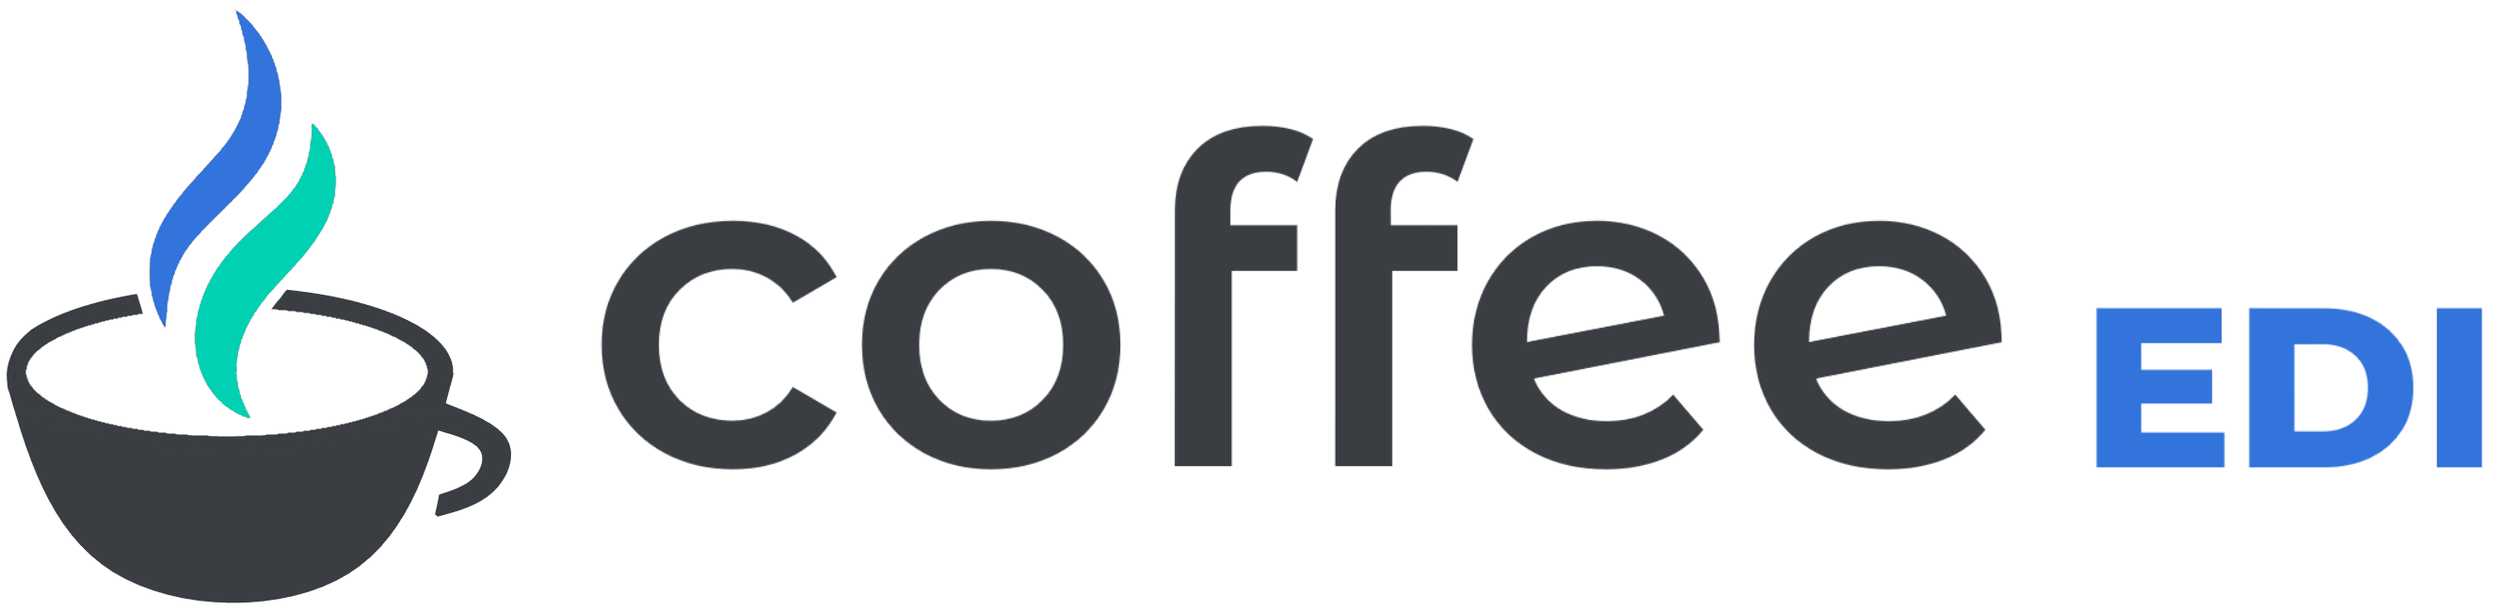
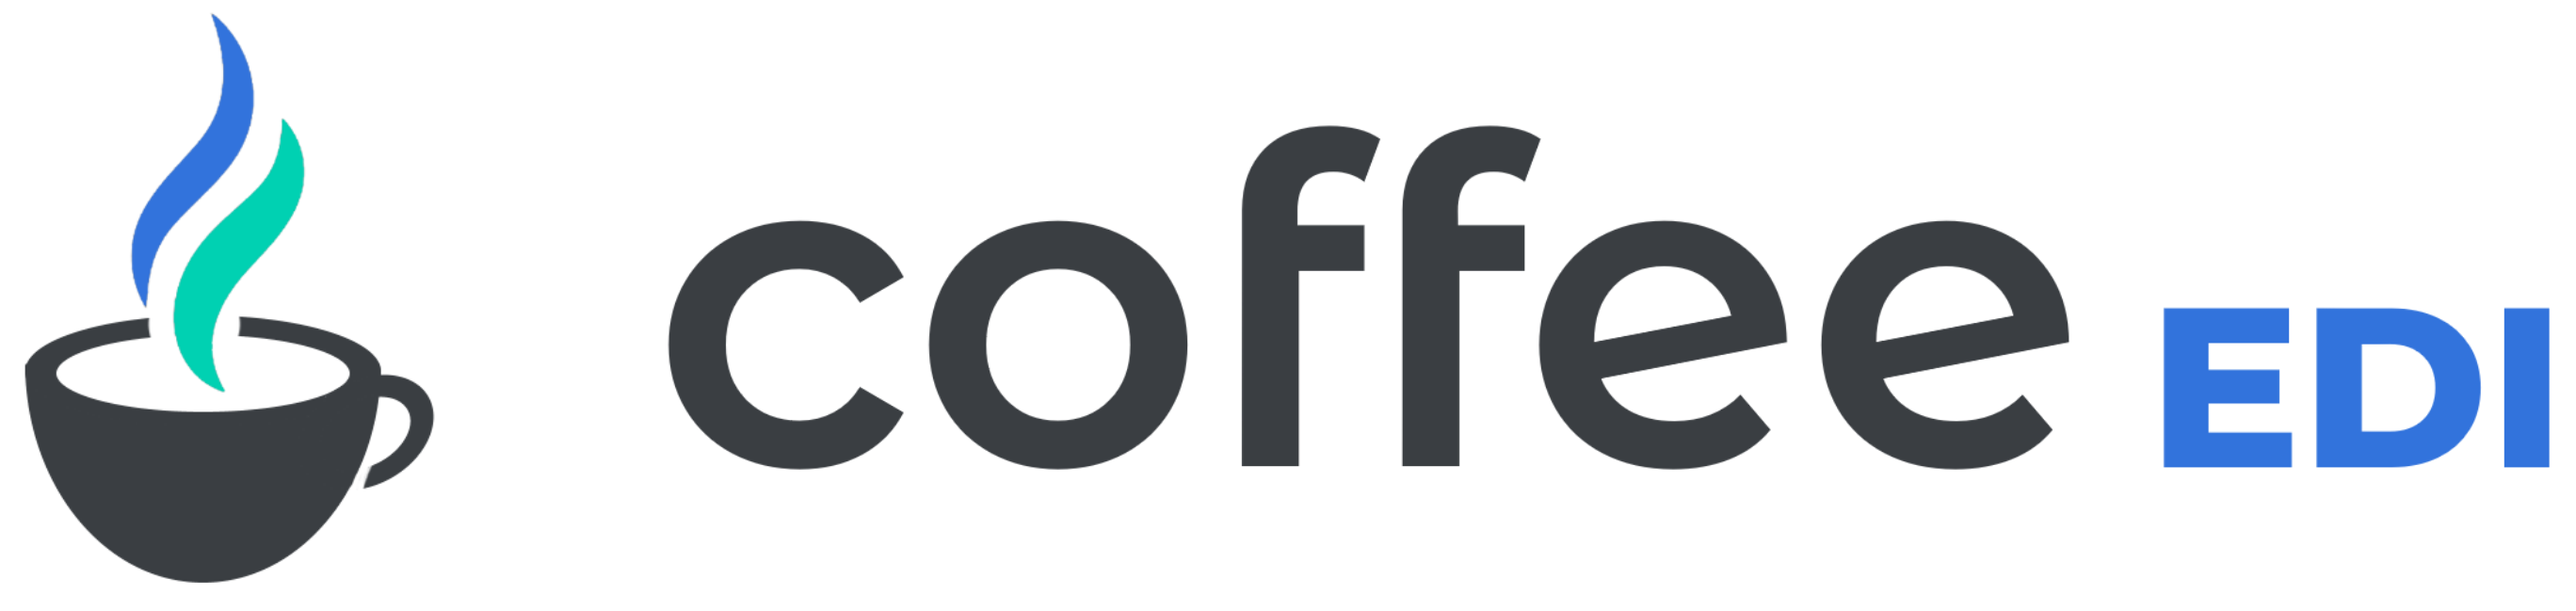
Updated assets

Changed region(s): [[0.2172, 0.1849, 0.9929, 0.7704], [0.0, 0.0308, 0.2172, 0.9861]]

diff --git a/index.html b/index.html
@@ -15,7 +15,7 @@
     <div class="columns is-gapless wrapper">
         <div class="column pr-0 py-0" style="max-width: 200px">
             <div class="column-header">
-                <img src="./assets/coffee.png">
+                <img id="logo" src="./assets/coffee.png">
             </div>
             <aside class="menu is-small p-4">
                 <p class="menu-label">

diff --git a/style.css b/style.css
@@ -82,8 +82,8 @@ table {
     padding-left: 8px;
 }
 
-img {
-    height: 24px;
+img#logo {
+    height: 32px;
     margin-left: 16px;
 }
 
